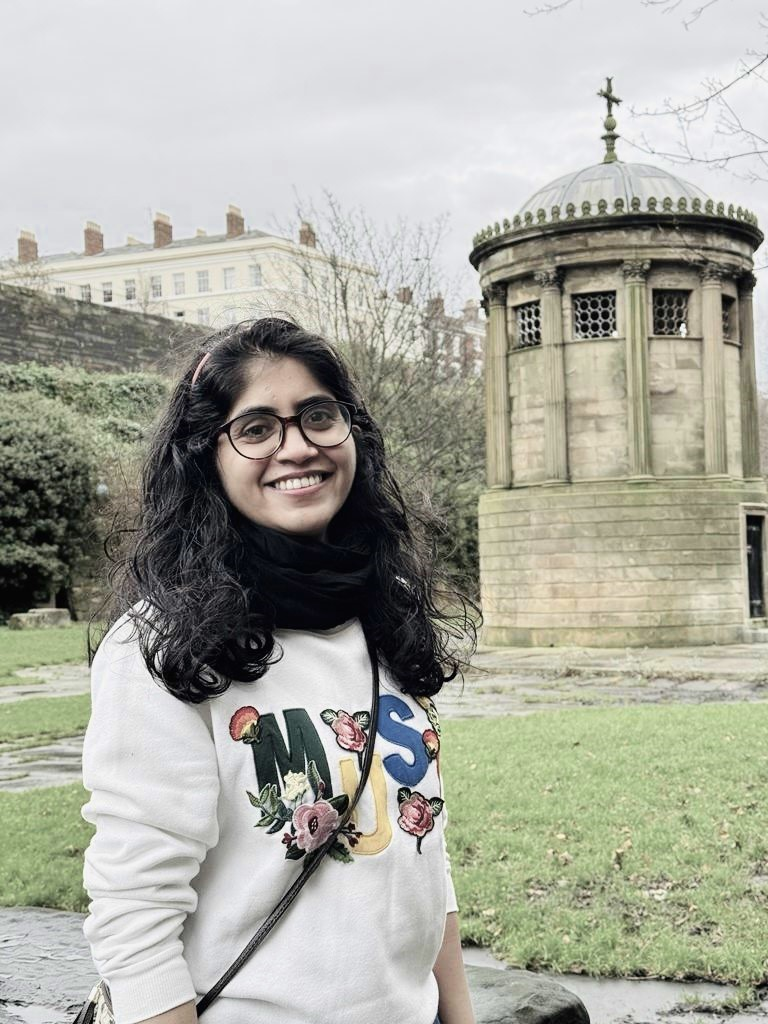
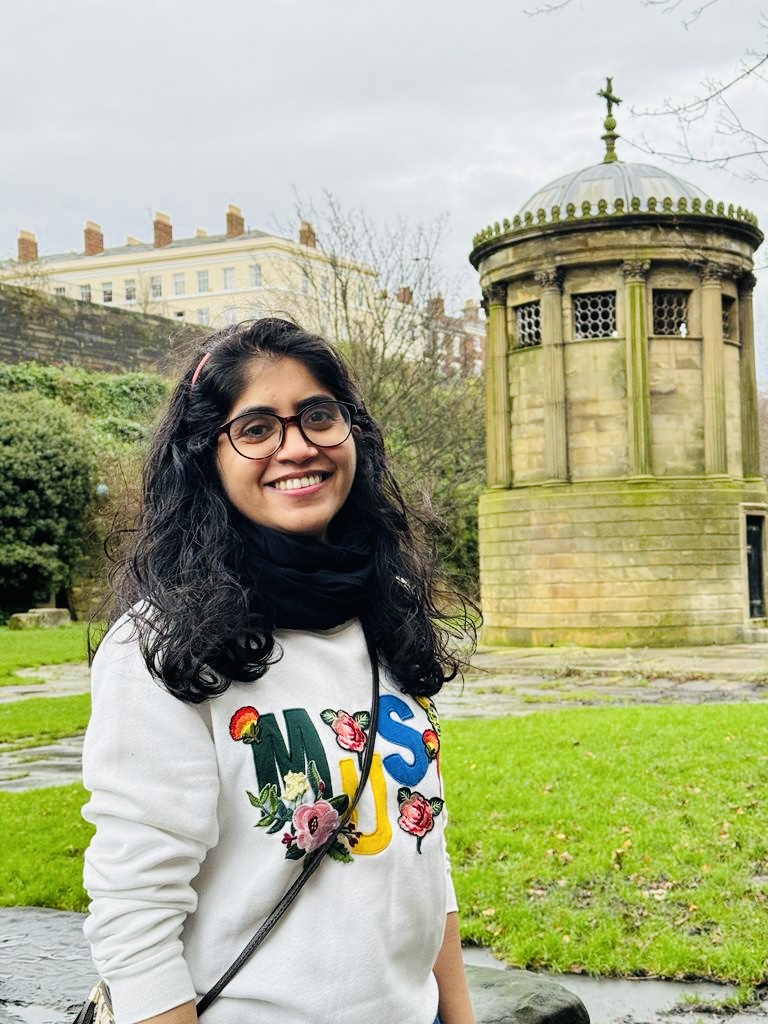
update website

diff --git a/css/style.css b/css/style.css
@@ -6,11 +6,9 @@ body {
     display: flex;
     flex-direction: column;
     min-height: 100vh;
-    background-image: url('../images/ritu.jpg');
     background-size: cover;
     background-position: center;
     background-attachment: fixed;
-    filter: grayscale(100%);
 }
 
 body::before {
@@ -99,3 +97,26 @@ header {
                 margin: 1rem;
             }
         }
+        .intro-section {
+            display: flex;
+            justify-content: center;
+            align-items: center;
+            padding: 20px;
+        }
+        
+        
+        
+        .intro-image img {
+            width: 350px; /* Adjust the size as needed */
+            height: auto;
+            border-radius: 50%; /* For a circular image effect */
+            box-shadow: 0 4px 8px rgba(0, 0, 0, 0.1);
+            opacity: 0.9;
+        }
+        header a, footer a, header a:hover, footer a:hover {
+            color: white; /* Changes the link color to white */
+            text-decoration: underline; /* Removes the underline from the links (optional) */
+        }
+
+
+        

diff --git a/index.html b/index.html
@@ -14,6 +14,13 @@
     <h1>Ritu Bafna</h1>
     <p>Email: <a href="mailto:ritujane78@gmail.com">ritujane78@gmail.com</a> | <a href="https://linkedin.com/in/ritu-bafna-3765b231" target="_blank">LinkedIn</a></p>
 </header>
+<section class="intro-section">
+    <div class="intro-text">
+    </div>
+    <div class="intro-image">
+        <img src="images/ritu.jpg" alt="Ritu Bafna" />
+    </div>
+</section>
 <section>
     <h2>About Me</h2>
     <div class="about-grid">
@@ -108,7 +115,7 @@
 </section>
 
 <footer>
-    <p>&copy; Copyright by Ritu Bafna | <a href="https://github.com/ritujane78" target="_blank">GitHub</a></p>
+    <p>&copy; Ritu Bafna | <a href="https://github.com/ritujane78" target="_blank">GitHub</a></p>
 </footer>
 
 </body>
